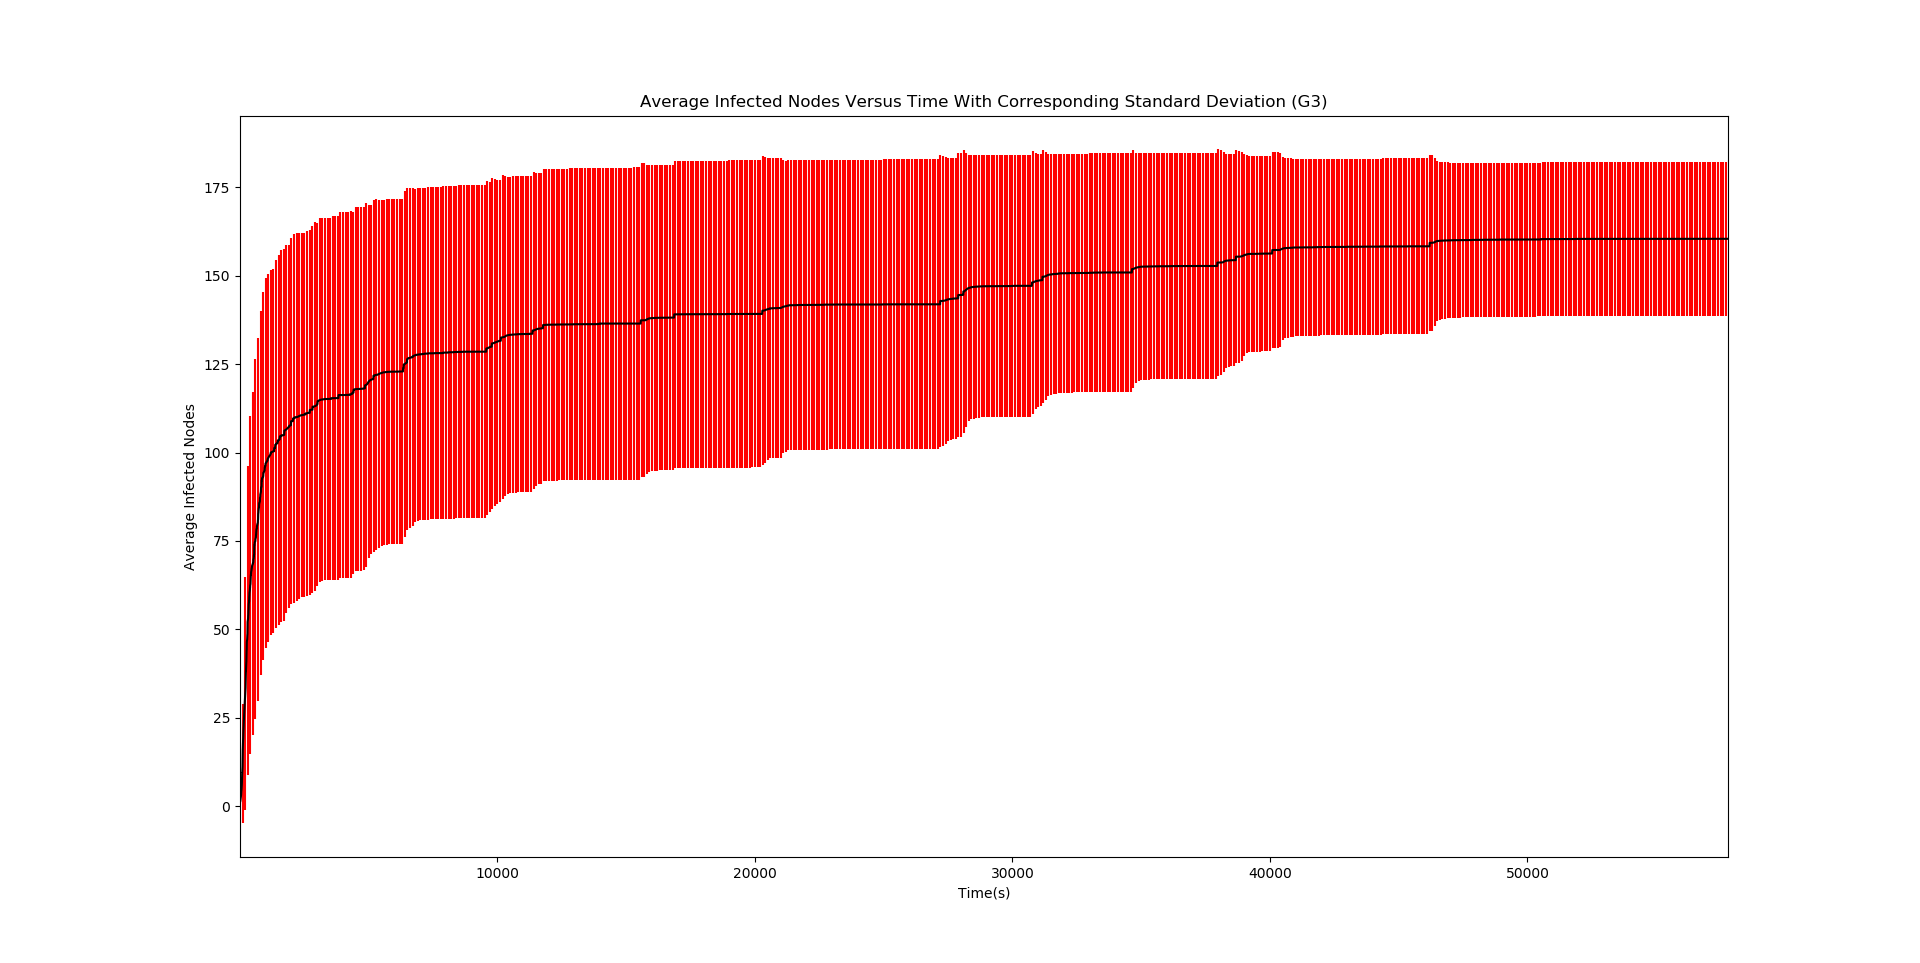
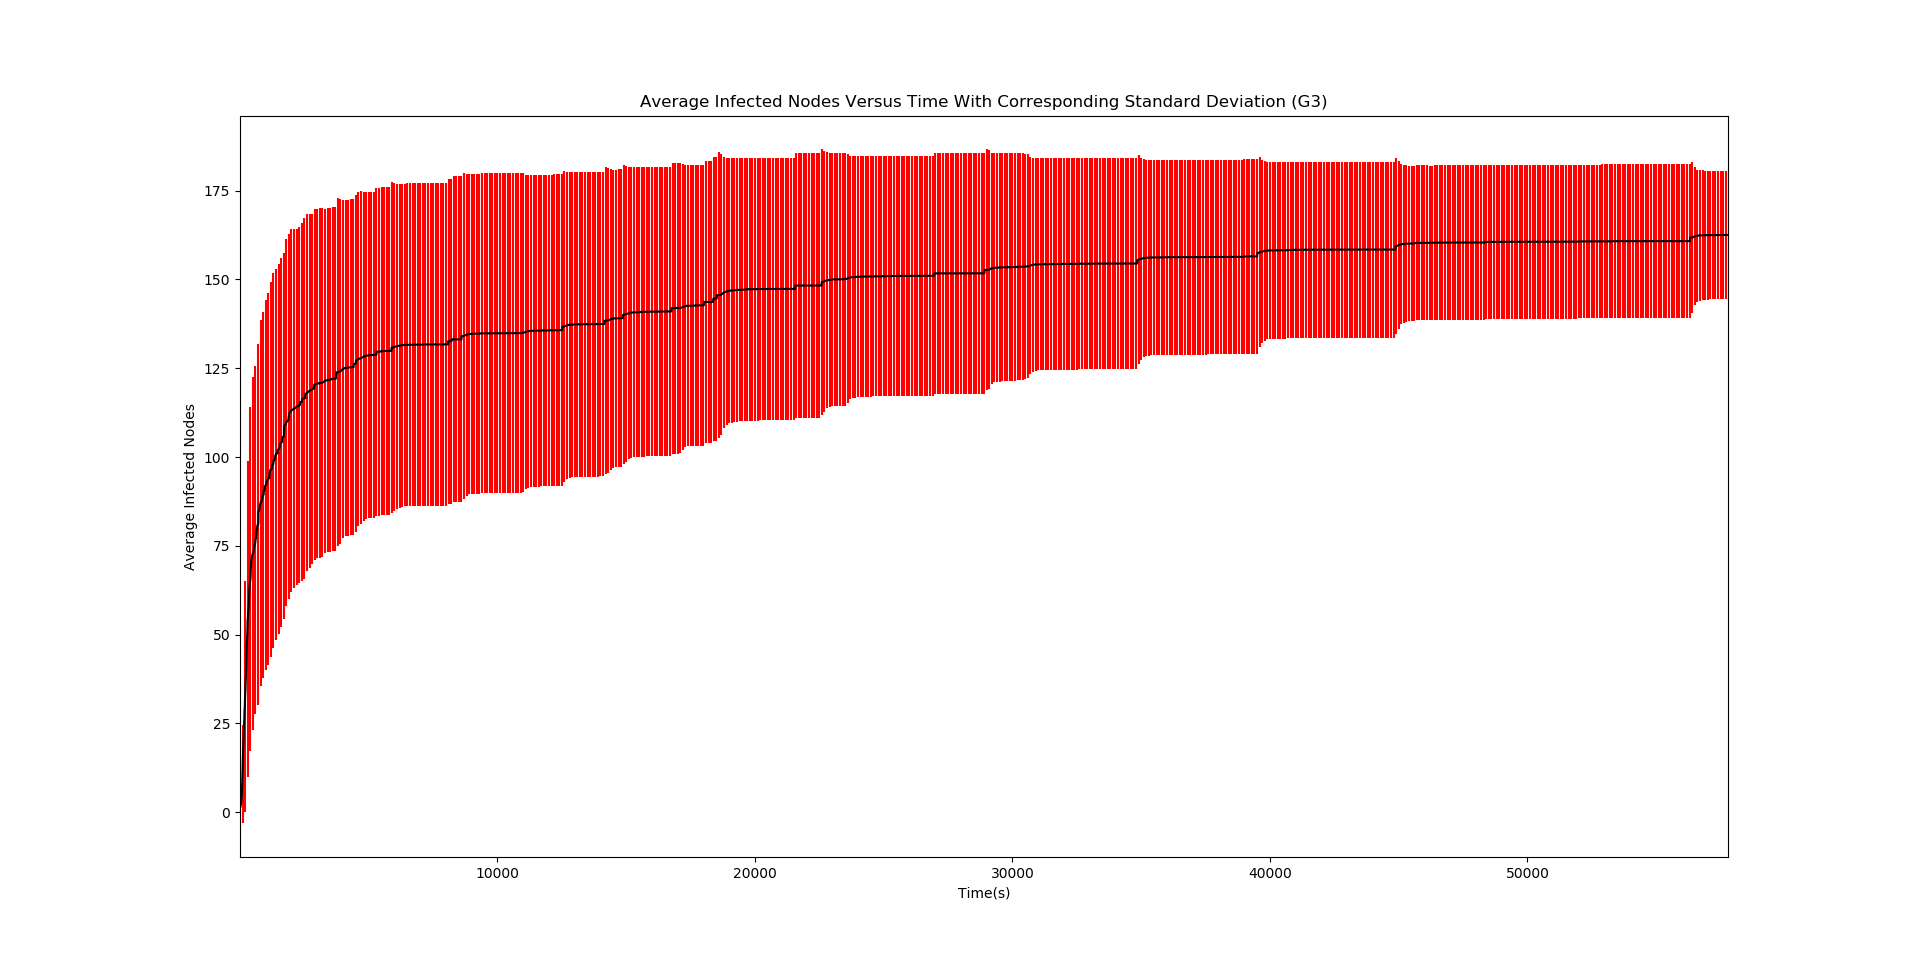
plots G3

diff --git a/BigAss/BigAss1C_G3.py b/BigAss/BigAss1C_G3.py
@@ -169,6 +169,8 @@ TimeInfectionPT= np.zeros((tmax,Nnodes))
 R_accent = np.zeros(Nnodes)
 R[Nnodes-1] = tmax
 for j in range(Nnodes):
+    if np.isnan(R[j]) == True:
+        R[j] = tmax
     for i in range(int(R[j])):
         InfectionPerTimestep[i,j] = Infections[i,j] - infections2[i,j]
         TimeInfectionPT[i,j] = InfectionPerTimestep[i,j]*(i+1) 
